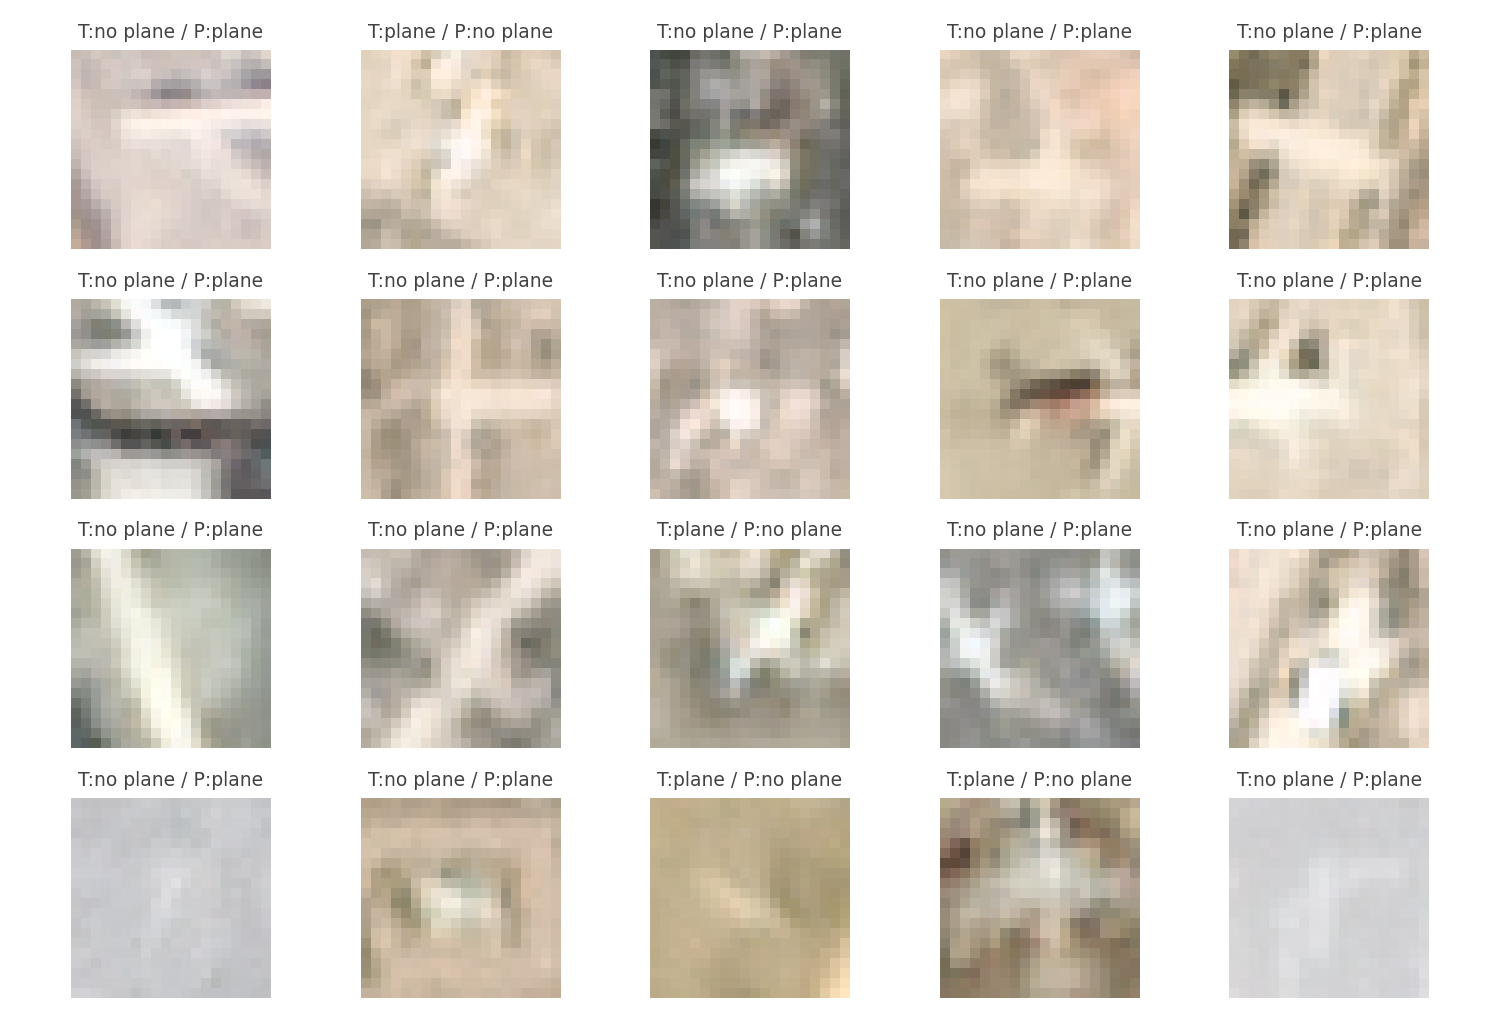
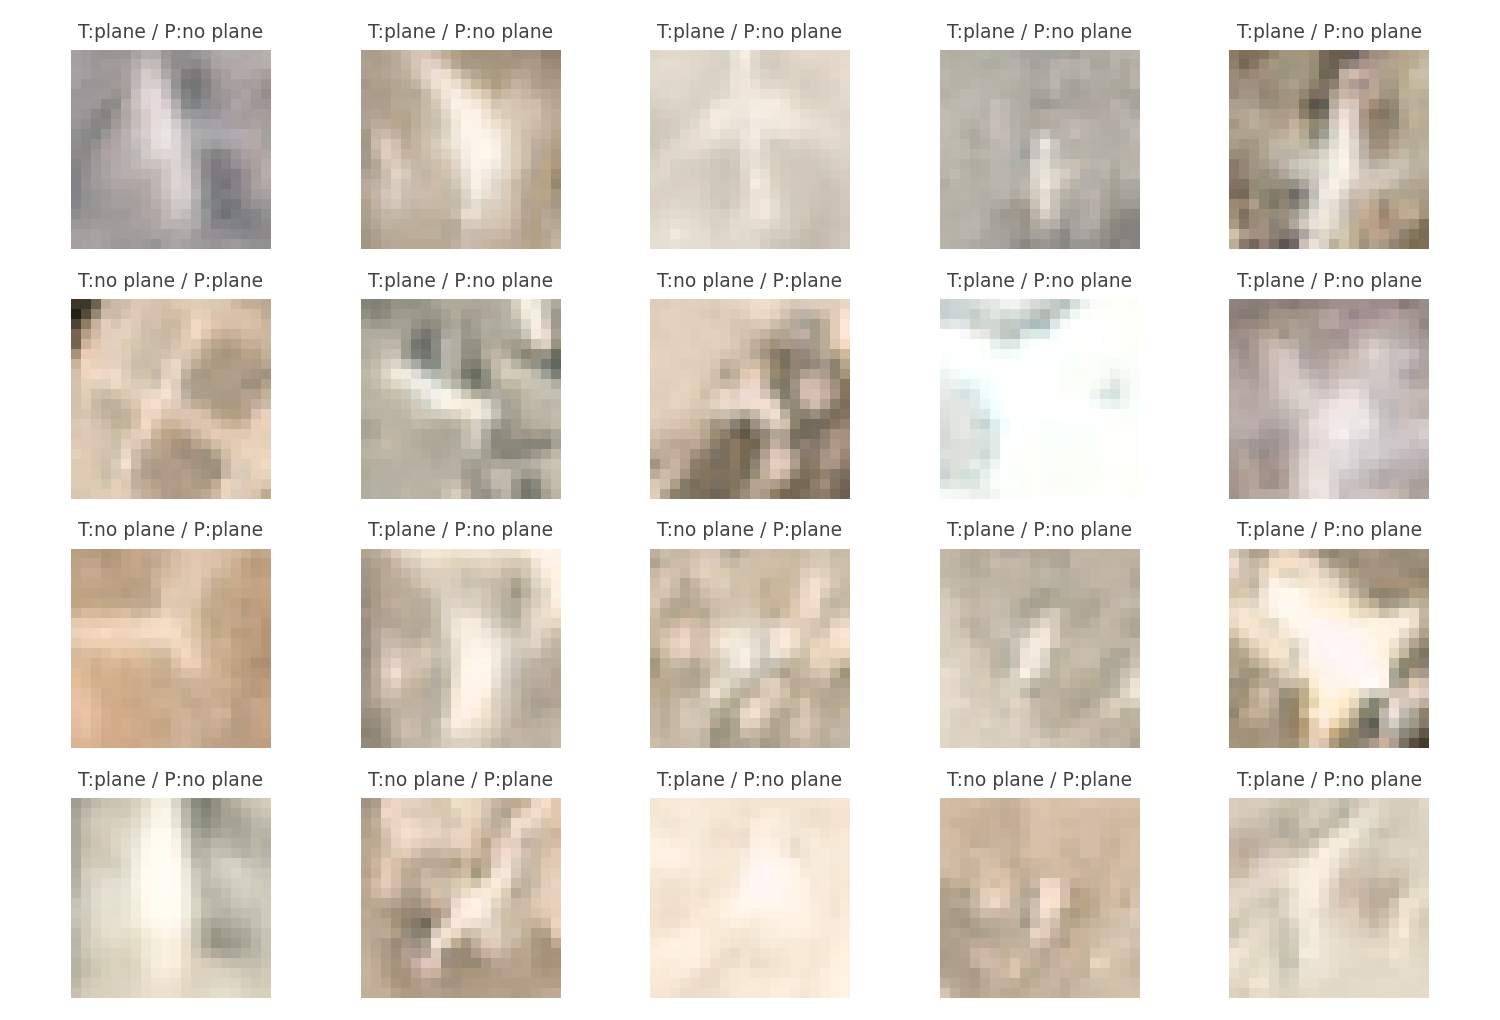
feat: reach 98.2 pct test accuracy (mini-VGG, LR schedule, tuned threshold)
- Replace the GAP-head model (101k params, 96.7 pct) with a two-block
  mini-VGG (270k params): double 3x3 convs with same padding, two
  max-pools, Flatten + Dense(128) head
- Drop the balanced class weights: with the stronger model they only
  traded accuracy for false alarms; the decision threshold now carries
  that trade instead
- Add ReduceLROnPlateau (halve after 3 stale epochs) and raise early
  stopping patience to 8, both on validation AUC
- Tune the decision threshold on validation after training, breaking
  near-ties (within one validation sample) toward the lower threshold
  for recall; store it in metrics.json, used by predict.py by default
  (--threshold to override)
- Measured on the held-out 6400-chip test set: 98.2 pct accuracy,
  plane precision 0.97, recall 0.96, AUC 0.998 (61 missed planes, 53
  false alarms); 8-fold dihedral TTA was measured and did not help
- Update README numbers, narrative, and embedded figures

diff --git a/train.py b/train.py
@@ -90,9 +90,9 @@ def load_dataset(data_dir):
 
 
 def build_model():
-    """Small CNN: ~100k parameters instead of the ~3.2M a Flatten head would give."""
-    from tensorflow.keras.layers import (Conv2D, Dense, Dropout, GlobalAveragePooling2D,
-                                         Input, MaxPooling2D, RandomFlip)
+    """Mini-VGG, ~270k parameters: two double-conv blocks and a Flatten head."""
+    from tensorflow.keras.layers import (Conv2D, Dense, Dropout, Flatten, Input,
+                                         MaxPooling2D, RandomFlip)
     from tensorflow.keras.metrics import AUC, Precision, Recall
     from tensorflow.keras.models import Sequential
 
@@ -101,13 +101,15 @@ def build_model():
         # Satellite chips have no preferred orientation: free augmentation
         # (active during training only).
         RandomFlip("horizontal_and_vertical", seed=SEED),
-        Conv2D(32, (3, 3), activation="relu"),
-        Conv2D(64, (3, 3), activation="relu"),
+        Conv2D(32, (3, 3), padding="same", activation="relu"),
+        Conv2D(32, (3, 3), padding="same", activation="relu"),
         MaxPooling2D((2, 2)),
-        Conv2D(128, (3, 3), activation="relu"),
-        GlobalAveragePooling2D(),
-        Dense(64, activation="relu"),
-        Dropout(0.3),
+        Conv2D(64, (3, 3), padding="same", activation="relu"),
+        Conv2D(64, (3, 3), padding="same", activation="relu"),
+        MaxPooling2D((2, 2)),
+        Flatten(),
+        Dense(128, activation="relu"),
+        Dropout(0.4),
         Dense(1, activation="sigmoid"),
     ])
     model.compile(
@@ -126,8 +128,7 @@ def main():
     import matplotlib.pyplot as plt
     from sklearn.metrics import classification_report, confusion_matrix
     from sklearn.model_selection import train_test_split
-    from sklearn.utils.class_weight import compute_class_weight
-    from tensorflow.keras.callbacks import EarlyStopping
+    from tensorflow.keras.callbacks import EarlyStopping, ReduceLROnPlateau
 
     os.makedirs(args.out_dir, exist_ok=True)
     rng = np.random.default_rng(SEED)
@@ -144,12 +145,6 @@ def main():
     )
     print("Split: %d train / %d val / %d test" % (len(y_train), len(y_val), len(y_test)))
 
-    # The dataset is imbalanced (3 no-planes per plane): weight the rare class up
-    # so the model is not rewarded for ignoring planes.
-    weights = compute_class_weight("balanced", classes=np.array([0, 1]), y=y_train)
-    class_weight = {0: weights[0], 1: weights[1]}
-    print("Class weights:", class_weight)
-
     model = build_model()
     model.summary()
 
@@ -158,22 +153,42 @@ def main():
         validation_data=(X_val, y_val),
         epochs=args.epochs,
         batch_size=args.batch_size,
-        class_weight=class_weight,
-        # val_loss is noisy under class weights + augmentation and stops far
-        # too early; val_auc climbs smoothly and is threshold-independent.
-        callbacks=[EarlyStopping(monitor="val_auc", mode="max", patience=5,
-                                 restore_best_weights=True)],
+        # val_loss is noisy under augmentation and stops far too early;
+        # val_auc climbs smoothly and is threshold-independent.
+        callbacks=[
+            ReduceLROnPlateau(monitor="val_auc", mode="max", factor=0.5,
+                              patience=3, min_lr=1e-5, verbose=1),
+            EarlyStopping(monitor="val_auc", mode="max", patience=8,
+                          restore_best_weights=True),
+        ],
     )
+
+    # 0.5 is not necessarily the best decision threshold. Pick the one that
+    # maximizes validation accuracy (never touch the test set for this).
+    # Accuracies within one validation sample of the maximum are noise, so
+    # break those ties toward the LOWEST threshold: same accuracy, more
+    # recall on the rare plane class.
+    val_probs = model.predict(X_val, verbose=0).ravel()
+    thresholds = np.arange(0.05, 0.951, 0.005)
+    val_accs = np.array([((val_probs >= t).astype(int) == y_val).mean()
+                         for t in thresholds])
+    near_best = thresholds[val_accs >= val_accs.max() - 1.0 / len(y_val)]
+    tuned = float(near_best.min())
+    print("Decision threshold tuned on validation: %.3f (val accuracy %.4f)"
+          % (tuned, val_accs.max()))
 
     # Final evaluation on the held-out test set. Accuracy alone is misleading
     # here: always answering "no plane" already scores the majority share.
     baseline = max(1 - y_test.mean(), y_test.mean())
     test_metrics = model.evaluate(X_test, y_test, return_dict=True)
     print("Majority-class baseline accuracy: %.4f" % baseline)
-    print("Test metrics:", {k: round(v, 4) for k, v in test_metrics.items()})
+    print("Test metrics at threshold 0.5:",
+          {k: round(v, 4) for k, v in test_metrics.items()})
 
     probs = model.predict(X_test).ravel()
-    pred_classes = (probs >= 0.5).astype(int)
+    pred_classes = (probs >= tuned).astype(int)
+    print("Test accuracy at tuned threshold: %.4f"
+          % (pred_classes == y_test).mean())
     print(classification_report(y_test, pred_classes, target_names=CLASS_NAMES,
                                 zero_division=0))
 
@@ -185,9 +200,12 @@ def main():
     with open(metrics_path, "w") as f:
         json.dump({
             "majority_baseline_accuracy": float(baseline),
-            "test": {k: float(v) for k, v in test_metrics.items()},
-            "report": classification_report(y_test, pred_classes, target_names=CLASS_NAMES,
-                                            zero_division=0, output_dict=True),
+            "tuned_threshold": tuned,
+            "test_at_0.5": {k: float(v) for k, v in test_metrics.items()},
+            "test_accuracy_at_tuned": float((pred_classes == y_test).mean()),
+            "report_at_tuned": classification_report(
+                y_test, pred_classes, target_names=CLASS_NAMES,
+                zero_division=0, output_dict=True),
             "epochs_run": len(history.history["loss"]),
         }, f, indent=2)
     print("Saved metrics to", metrics_path)

diff --git a/predict.py b/predict.py
@@ -6,6 +6,7 @@ Usage:
 """
 
 import argparse
+import json
 import os
 import sys
 
@@ -31,10 +32,23 @@ def main():
     parser.add_argument("inputs", nargs="+", help="PNG files or folders of PNG files")
     parser.add_argument("--model", default=os.path.join("outputs", "plane_cnn.keras"),
                         help="Path to the trained model (default: outputs/plane_cnn.keras)")
+    parser.add_argument("--threshold", type=float, default=None,
+                        help="Decision threshold; defaults to the tuned value stored in "
+                             "metrics.json next to the model, or 0.5")
     args = parser.parse_args()
 
     if not os.path.isfile(args.model):
         sys.exit("Model '%s' not found. Train one first with: python train.py" % args.model)
+
+    threshold = args.threshold
+    if threshold is None:
+        metrics_path = os.path.join(os.path.dirname(args.model), "metrics.json")
+        try:
+            with open(metrics_path) as f:
+                threshold = float(json.load(f)["tuned_threshold"])
+        except (OSError, KeyError, ValueError):
+            threshold = 0.5
+    print("Decision threshold: %.3f" % threshold)
 
     paths = collect_paths(args.inputs)
     if not paths:
@@ -52,7 +66,7 @@ def main():
     probs = model.predict(batch, verbose=0).ravel()
 
     for path, prob in zip(paths, probs):
-        label = "plane" if prob >= 0.5 else "no plane"
+        label = "plane" if prob >= threshold else "no plane"
         print("%-60s %s (p=%.3f)" % (path, label, prob))
 
 

diff --git a/README.md b/README.md
@@ -32,44 +32,48 @@ python train.py
 ```
 
 The script loads the 32,000 chips and splits them 72/8/20 into train,
-validation, and test sets, stratified and seeded. Balanced class weights keep
-the minority plane class from being drowned out during training. Random flips
-augment the chips. A plane viewed from overhead has no preferred orientation,
-and the flips cost nothing. Training stops once validation AUC has gone 5
-epochs without a new best, and the weights roll back to that best epoch. I
-first stopped on validation loss instead; under class weights it jumped around
-so much that the run ended at epoch 5 with a badly underfit model.
+validation, and test sets, stratified and seeded. Random flips augment the
+chips. A plane viewed from overhead has no preferred orientation, and the
+flips cost nothing. The learning rate halves after 3 epochs without a new
+best validation AUC; training stops after 8 and the weights roll back to the
+best epoch. I first stopped on validation loss instead, and it jumped around
+so much under the augmentation that one run ended at epoch 5, badly underfit.
+After training, the script scans decision thresholds on the validation set
+and stores the most accurate one in `metrics.json`, where `predict.py` picks
+it up.
 
 Flags: `--data-dir`, `--epochs` (ceiling, default 60), `--batch-size`,
 `--out-dir`, and `--no-show` to save the figures without opening windows.
 
-I kept the network small on purpose, 101k parameters:
+The network is a small two-block design, 270k parameters:
 
 ```
-RandomFlip -> Conv2D(32) -> Conv2D(64) -> MaxPooling2D
--> Conv2D(128) -> GlobalAveragePooling2D -> Dense(64) -> Dropout -> Dense(1)
+RandomFlip -> [Conv2D(32) x2 -> MaxPooling2D] -> [Conv2D(64) x2 -> MaxPooling2D]
+-> Flatten -> Dense(128) -> Dropout -> Dense(1)
 ```
 
 The first version of this script had no pooling at all and flattened straight
 into a Dense layer. That one matrix held 3.2 million parameters, 97% of the
-model. The current network gets by with 1/30th of the weights.
+model. A 101k-parameter rewrite with a GlobalAveragePooling head fixed the
+bloat and plateaued near 97% accuracy. The current network sits in between
+and beats both.
 
 ## Results
 
 One number means little on an imbalanced dataset. Always answering "no plane"
 already scores 75%.
 
-On the 6,400 held-out test chips the network reaches 96.7% accuracy, with a
-recall of 0.97 and a precision of 0.91 on the plane class (AUC 0.994). Read
-those two numbers together. The model finds nearly every plane and pays for it
-with a false alarm on roughly one positive call in eleven. That is the trade
-the balanced class weights ask for, and the right side for a detector to err
-on. Drop the `class_weight` argument in `train.py` if you would rather have
-fewer alarms and more missed planes.
+On the 6,400 held-out test chips the network reaches 98.2% accuracy, with a
+precision of 0.97 and a recall of 0.96 on the plane class (AUC 0.998). The
+stored threshold, 0.72 on this run, gives the same test accuracy as plain
+0.5; when validation cannot separate two thresholds, the script keeps the
+lower one for its recall. The threshold stays useful as a trade knob. Lower
+it with `predict.py --threshold` when a missed plane costs more than a false
+alarm.
 
-Training took about half an hour on a laptop CPU. Early stopping ended the run
-at epoch 55 of 60 and kept the weights from epoch 50, where
-validation AUC peaked at 0.995.
+Training runs in a few minutes on a laptop CPU. The learning rate dropped
+twice on the way; early stopping ended the run at epoch 21 and kept the
+weights from epoch 13, where validation AUC peaked at 0.998.
 
 ![Accuracy, loss, and AUC per epoch, training vs validation](docs/img/training_curves.png)
 
@@ -80,9 +84,9 @@ Everything a run produces lands in `outputs/`: the trained model
 (`plane_cnn.keras`), the test metrics and per-class report in `metrics.json`,
 the per-epoch numbers in `history.json`, the training curves, a confusion
 matrix, and grids of sample, correct, and misclassified chips. The
-misclassified grid is worth a look. In my run most errors were false alarms on
-bright plane-shaped blobs and white crosses on tarmac, the confusers doing
-their job, and the few missed planes were faint, low-contrast ones.
+misclassified grid is worth a look. The 114 test errors split almost evenly:
+61 missed planes, half-cut or blended into the tarmac, against 53 false
+alarms on plane-shaped white blobs.
 
 ![Misclassified test chips, true and predicted label above each](docs/img/misclassified.png)
 
@@ -93,7 +97,8 @@ python predict.py path/to/chip.png
 python predict.py some_folder/
 ```
 
-Loads `outputs/plane_cnn.keras` and prints a label and probability per file.
+Loads `outputs/plane_cnn.keras` and prints a label and probability per file,
+using the stored tuned threshold (override with `--threshold`).
 
 ## Data license
 
